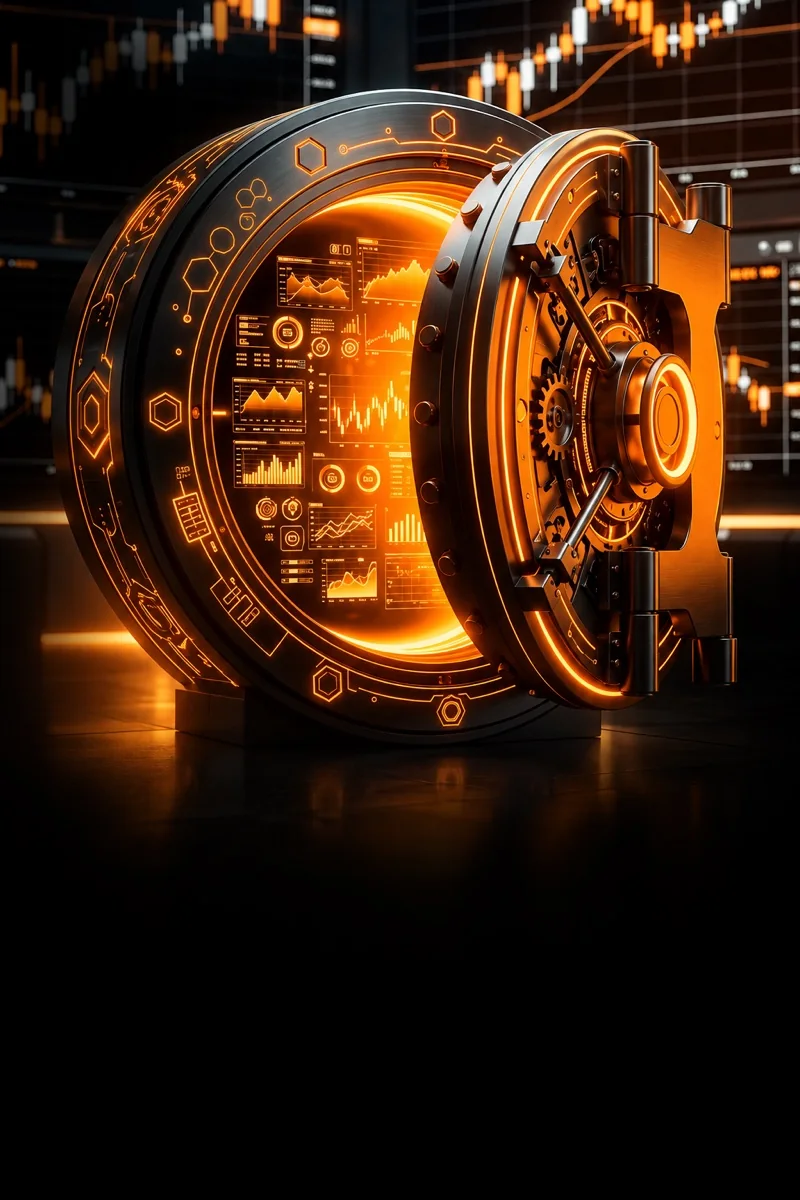
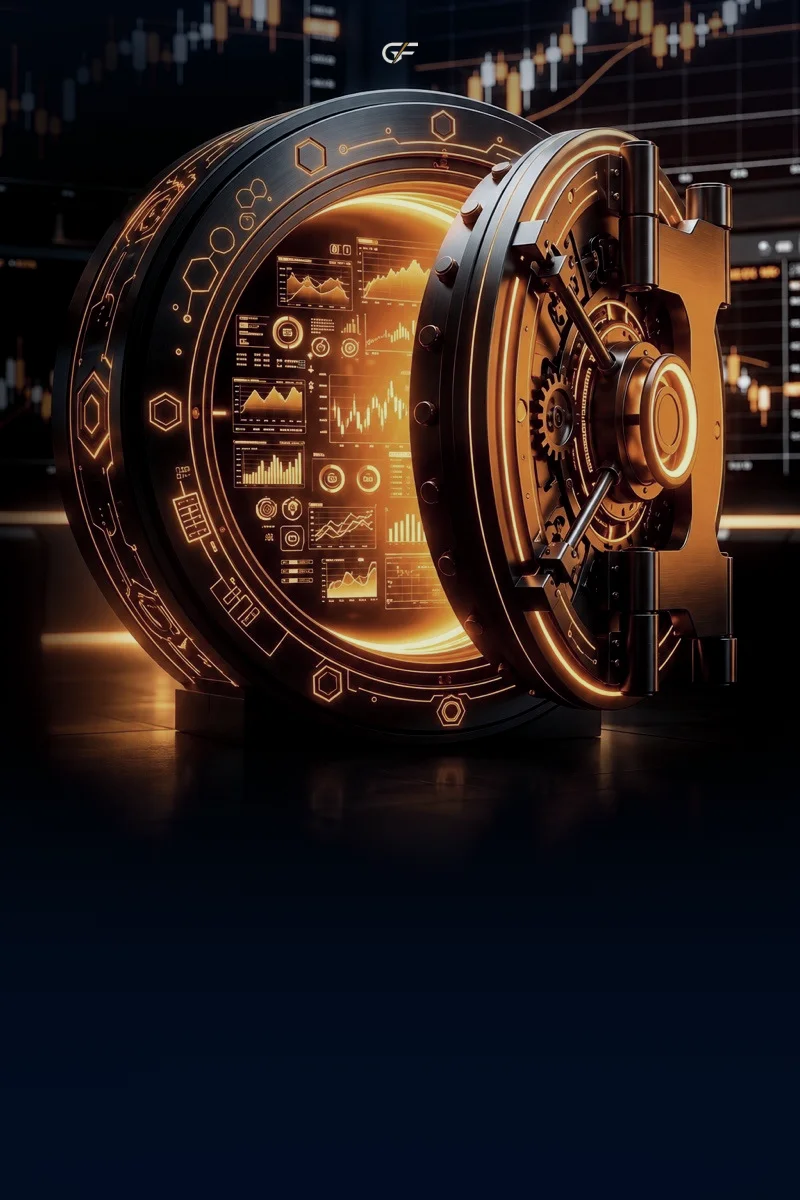
GlobalFly: treinamento com 3 modulos e 19 aulas, capas novas em serie
Grade final do Tiago (Comece aqui; Estrategias de I.A. na pratica;
Gerenciamento e Emocional). Capas 800x1200 na mesma gradacao marinho e
ouro: as da plataforma do Victor regradadas, os robos em poster com o nome
em ouro, e capas novas montadas com fotos livres (formacao em delta,
cabines Gulfstream, piloto na pista) e graficos proprios (documento,
autenticador, selo, planilha, demo x real).

diff --git a/src/casca/globalfly/core/teeds/modulosAulas.ts b/src/casca/globalfly/core/teeds/modulosAulas.ts
@@ -1,6 +1,5 @@
 import { MARCA } from '../../marca'
-import { nomeDaEstrategia } from '../deriv/branding'
-import type { Modulo } from './aulas'
+import type { Aula, Modulo } from './aulas'
 
 /* Pedido de 16/10/2026: a vitrine da GlobalFly já aparece, com as capas.
    Aula sem vídeo mostra "Em breve" e abre os detalhes; nenhum vídeo de
@@ -9,84 +8,58 @@ export const SALA_EM_BREVE = false
 export const DEMONSTRACAO_EM_AULA_SEM_VIDEO = false
 
 /**
- * O treinamento da GlobalFly Trade (16/10/2026).
+ * O treinamento da GlobalFly Trade: a grade final do Tiago (19/10/2026),
+ * 3 módulos e 19 aulas, nesta ordem.
  *
- * A ordem combinada com o Tiago: visão geral da plataforma, conta na Deriv,
- * primeiro depósito, primeiro saque, uma aula por robô e, por fim, o
- * gerenciamento operacional. Os títulos podem ser trocados pelo painel de
- * aulas (admin) sem mexer aqui; as capas ficam em public/aulas-globalfly/,
- * com o mesmo nome do id de cada aula.
- *
- * Os robôs saem de MARCA.robos: trocou a vitrine, as aulas acompanham.
+ * Os vídeos entram pelo painel de aulas (admin), aula por aula, sem mexer
+ * aqui: o painel grava por cima pelo `id`. Por isso o id nunca muda depois
+ * que a aula tiver vídeo. As capas ficam em public/aulas-globalfly/, com o
+ * mesmo nome do id (.jpg, .webp e -mobile.webp).
  */
-const DESCRICAO_DO_ROBO: Record<string, string> = {
-  goreme: 'Como ele decide a entrada, quando recupera e como configurar meta e limite antes de ligar.',
-  superior5: 'A leitura dos dígitos altos, a configuração passo a passo e o que acompanhar na cabine.',
-  ag2: 'A estratégia dos dígitos baixos, a configuração passo a passo e o que acompanhar na cabine.',
-  firstblock: 'A lógica da primeira metade dos dígitos, a configuração e os pontos de atenção.',
-  secondblock: 'A lógica da segunda metade dos dígitos, a configuração e os pontos de atenção.',
-  thepalm: 'Como ele se adapta ao mercado, a configuração e o que observar durante a sessão.',
-  falcon: 'Os dígitos de 0 a 5, a entrada direta, a recuperação e como configurar antes de ligar.',
-  legacy: 'Os dígitos de 4 a 9, a entrada direta, a recuperação e como configurar antes de ligar.',
-}
+const aula = (id: string, titulo: string, descricao: string): Aula => ({ id, titulo, descricao, video: '', duracao: '' })
 
 export const MODULOS: Modulo[] = [
   {
     id: 'comeco',
-    titulo: 'Comece por aqui',
-    chamada: 'Da plataforma aberta ao primeiro saque.',
+    titulo: 'Comece aqui',
+    chamada: 'Da conta aberta à primeira operação, com segurança.',
     cor: '#B78D39',
     aulas: [
-      {
-        id: 'visao-geral',
-        titulo: `Visão geral da ${MARCA.prosa}`,
-        descricao: 'O que significa cada aba e cada botão da plataforma, e como navegar por ela.',
-        video: '', duracao: '',
-      },
-      {
-        id: 'conta-deriv',
-        titulo: 'Abrindo sua conta na Deriv',
-        descricao: 'O cadastro na corretora, passo a passo, e como conectar a conta à plataforma.',
-        video: '', duracao: '',
-      },
-      {
-        id: 'primeiro-deposito',
-        titulo: 'Fazendo seu primeiro depósito',
-        descricao: 'Como colocar dinheiro na sua conta da corretora, com as opções disponíveis no Brasil.',
-        video: '', duracao: '',
-      },
-      {
-        id: 'primeiro-saque',
-        titulo: 'Fazendo seu primeiro saque',
-        descricao: 'Como tirar o seu dinheiro da corretora: o caminho, os prazos e os limites.',
-        video: '', duracao: '',
-      },
+      aula('introducao', `Introdução à ${MARCA.prosa}`, 'Quem está por trás da plataforma, o que você vai encontrar aqui e como aproveitar o treinamento do começo ao fim.'),
+      aula('visao-geral', 'Conhecendo a Plataforma e suas funcionalidades', 'Cada aba, cada botão e cada tela: onde ficam os robôs, o gráfico, o histórico e as configurações.'),
+      aula('conta-deriv', 'Abertura de conta', 'O cadastro na corretora passo a passo e como conectar a sua conta à plataforma.'),
+      aula('primeiro-deposito', 'Como depositar?', 'As formas de colocar saldo na sua conta da corretora, com as opções disponíveis no Brasil.'),
+      aula('saldo-demo-real', 'Saldo DEMO e saldo REAL', 'A diferença entre as duas contas, quando usar cada uma e como trocar entre elas sem erro.'),
+      aula('documentos', 'Como enviar suas documentações?', 'Quais documentos a corretora pede, como enviar e o que fazer se a verificação não for aprovada de primeira.'),
+      aula('autenticador', 'Ativando o autenticador de 2 passos', 'Uma camada a mais de proteção na sua conta: como ativar, qual aplicativo usar e como guardar os códigos.'),
+      aula('deriv-confiavel', 'Corretora Deriv é confiável?', 'Há quanto tempo ela opera, como funciona a regulação e o que observar antes de depositar.'),
     ],
   },
   {
-    id: 'robos',
-    titulo: 'Os robôs',
-    chamada: 'Uma aula para cada estratégia da plataforma.',
+    id: 'estrategias',
+    titulo: 'Estratégias de I.A. na prática',
+    chamada: 'Uma aula para cada estratégia, e depois a operação de verdade.',
     cor: '#9CB1C7',
-    aulas: MARCA.robos.map((id) => ({
-      id: `robo-${(MARCA.nomesDosRobos?.[id] ?? id).replace(/^GlobalFly\s+/i, '').toLowerCase().normalize('NFD').replace(/[^a-z0-9]+/g, '-')}`,
-      titulo: nomeDaEstrategia(id),
-      descricao: DESCRICAO_DO_ROBO[id] ?? 'Como a estratégia funciona, a configuração passo a passo e o que acompanhar.',
-      video: '', duracao: '',
-    })),
+    aulas: [
+      aula('o-que-sao-as-ias', 'O que são essas I.A. de operações e como funcionam?', 'O que cada estratégia automática faz por você, como decide a entrada e o que continua nas suas mãos.'),
+      aula('robo-raptor', 'Como funciona a estratégia RAPTOR?', 'Os dígitos em que ela entra, como recupera uma perda e como configurar meta e limite antes de ligar.'),
+      aula('robo-gulf', 'Como funciona a estratégia GULF?', 'A leitura dos dígitos altos, quando ela entra e o que acompanhar durante a sessão.'),
+      aula('robo-falcon', 'Como funciona a estratégia FALCON?', 'Os dígitos de 0 a 5, a entrada direta, a recuperação e como configurar antes de ligar.'),
+      aula('robo-legacy', 'Como funciona a estratégia LEGACY?', 'Os dígitos de 4 a 9, a entrada direta, a recuperação e como configurar antes de ligar.'),
+      aula('robo-phenom', 'Como funciona a estratégia PHENOM?', 'A estratégia dos dígitos baixos, quando ela entra e o que acompanhar durante a sessão.'),
+      aula('operando-na-pratica', 'Operando na prática', 'Uma sessão do começo ao fim: escolher a estratégia, definir valores, acompanhar e encerrar.'),
+      aula('dicas', 'Dicas e orientações', 'Os cuidados que fazem diferença no dia a dia e os erros mais comuns de quem está começando.'),
+    ],
   },
   {
     id: 'gestao',
-    titulo: 'Gestão',
+    titulo: 'Gerenciamento e Emocional',
     chamada: 'O que separa uma sessão boa de um mês consistente.',
     cor: '#29445F',
     aulas: [
-      {
-        id: 'gerenciamento',
-        titulo: 'Gerenciamento operacional',
-        descricao: 'Como definir meta, limite de perda e tamanho da entrada, e como montar o seu plano de gestão.',
-        video: '', duracao: '',
-      },
+      aula('gerenciamento', 'O que é Gerenciamento de Risco?', 'Por que o tamanho da entrada, a meta e o limite de perda importam mais do que a estratégia escolhida.'),
+      aula('gestao-na-pratica', 'Como fazer gestão na prática?', 'Como montar o seu plano: valor por entrada, meta do dia, limite de perda e quando parar.'),
+      aula('planilha', 'Como usar a planilha de Gerenciamento?', 'O passo a passo da planilha: preencher a banca, acompanhar cada dia e ajustar o plano.'),
     ],
   },
 ]
